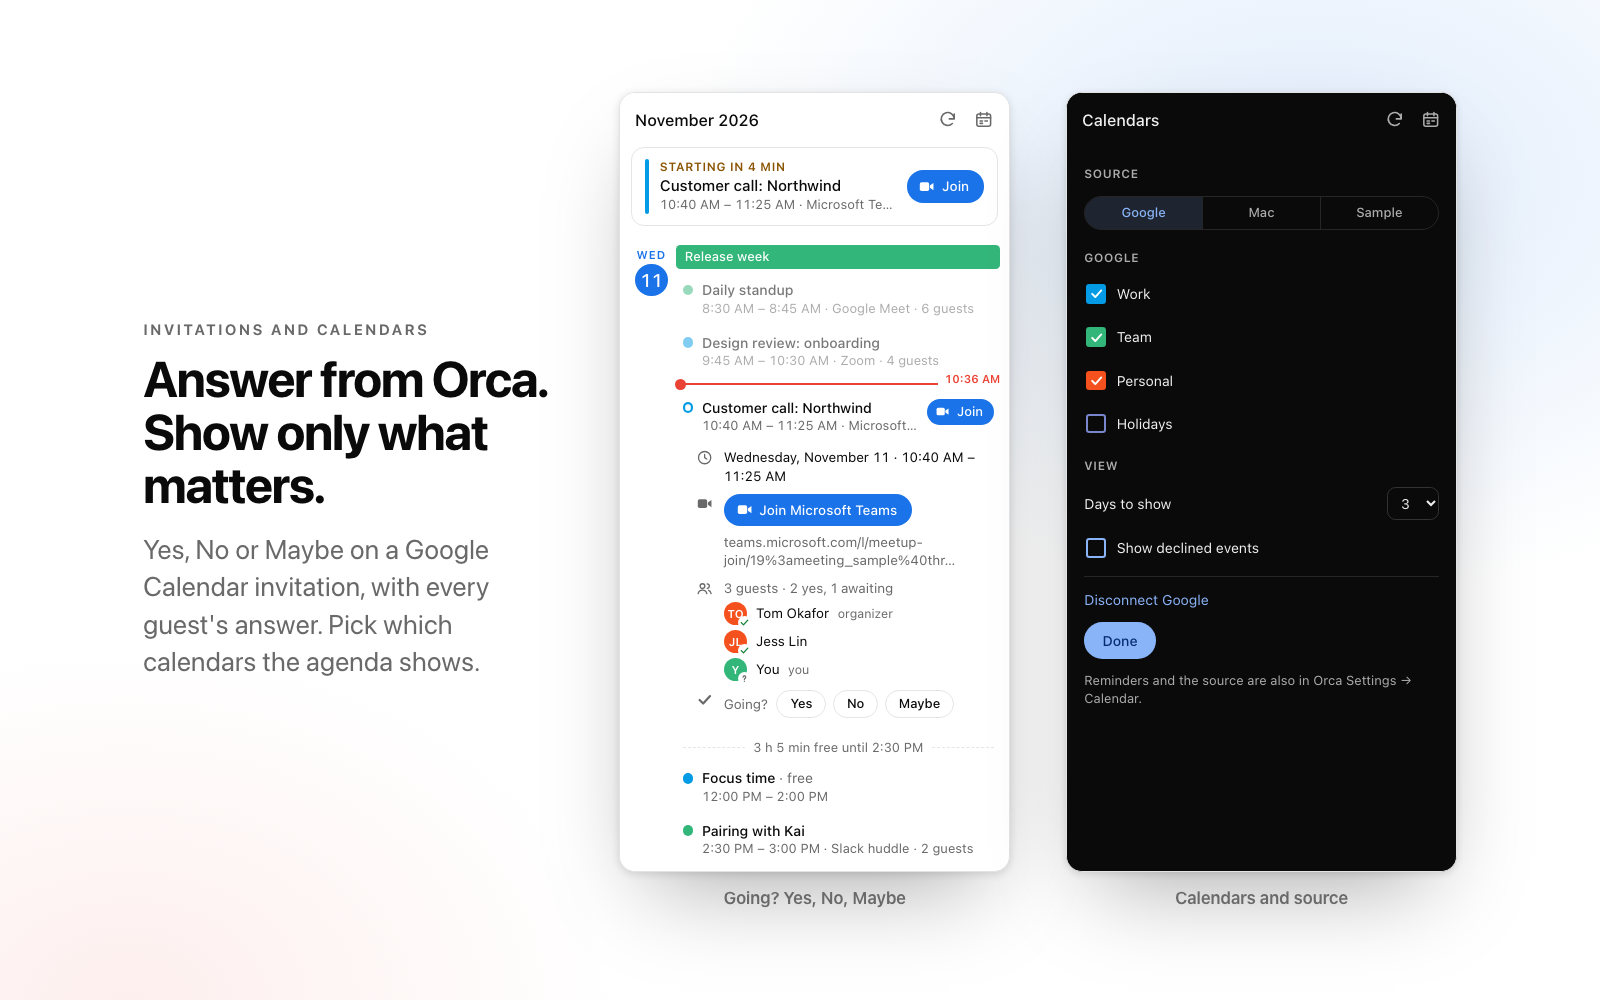
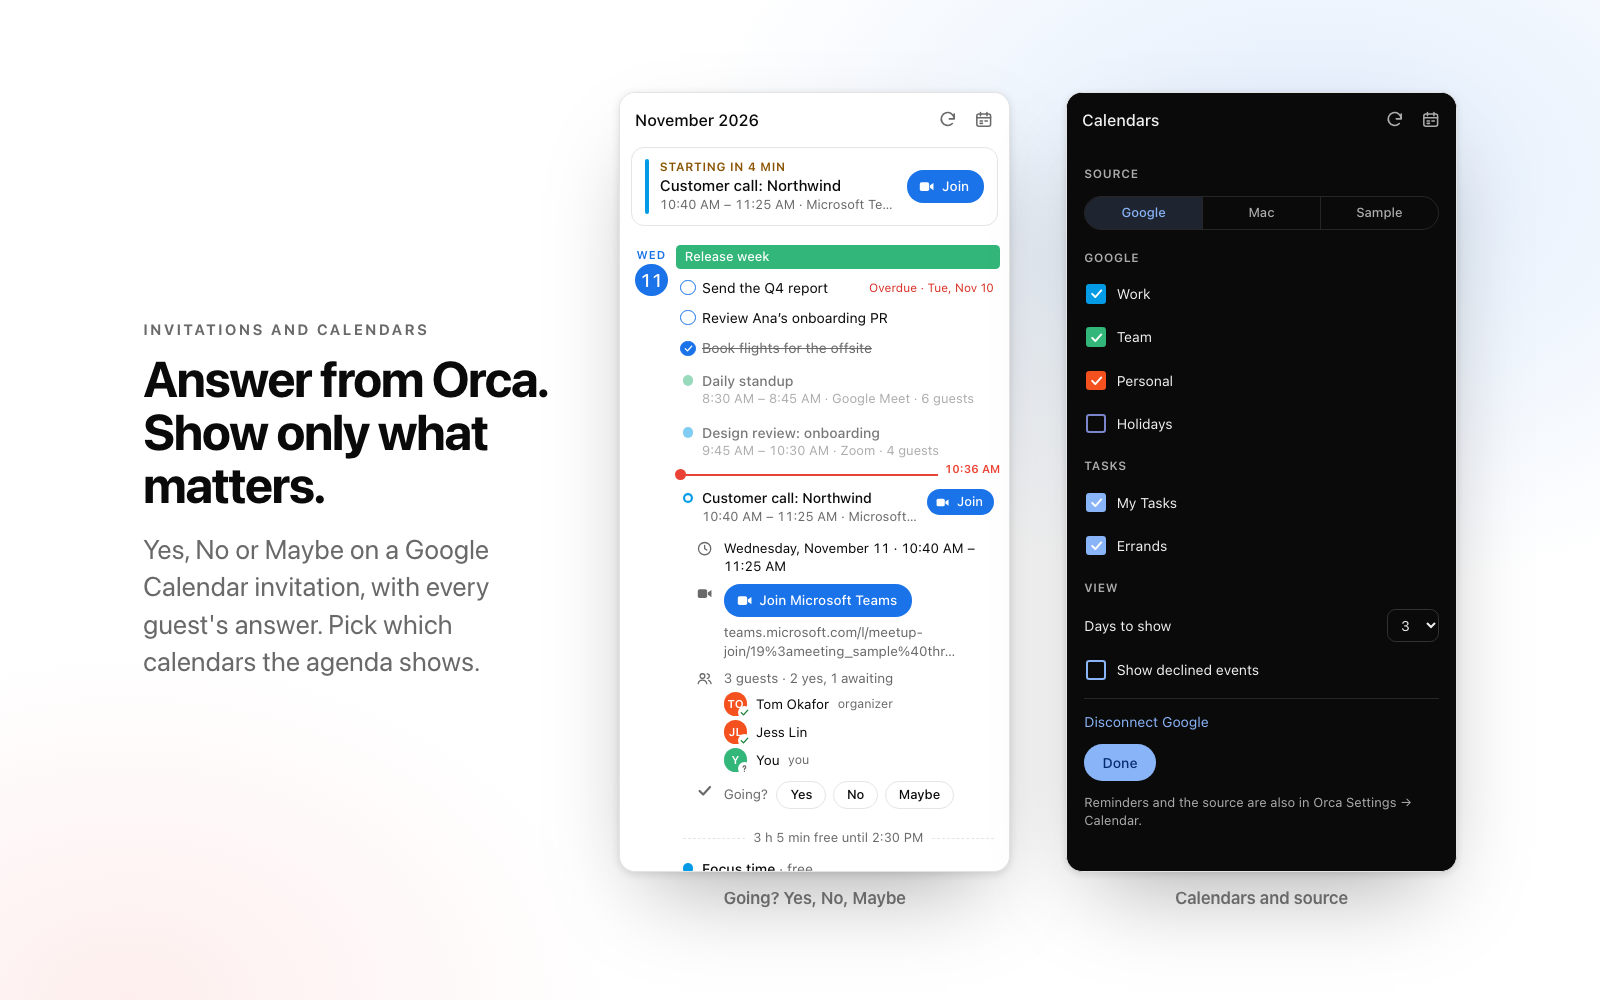
Release 0.3.0: Google Tasks, and the plugin page shows them
The cover, the agenda screenshot and the manifest description now show
Google Tasks; every listing image is rendered again from the sample week,
which now has tasks.

diff --git a/README.md b/README.md
@@ -34,7 +34,7 @@ Needs Orca 1.4.248 or newer.
 1. Open [the plugin's page](https://onorca.dev/plugins/bautistapessagno.calendar) and click
    **Open in Orca**, or in Orca: Settings → Plugins → search **Calendar** in the community
    catalog. By hand: **Install plugin** → Git URL →
-   `https://github.com/BautistaPessagno/orca-calendar#v0.2.1`.
+   `https://github.com/BautistaPessagno/orca-calendar#v0.3.0`.
 2. Full-access plugins need Orca's separate setting that allows them (off by default).
 3. Review what it asks for and click **Enable**. It asks for notifications (meeting reminders),
    its own settings, its own storage and its own encrypted secrets (the Google login).
